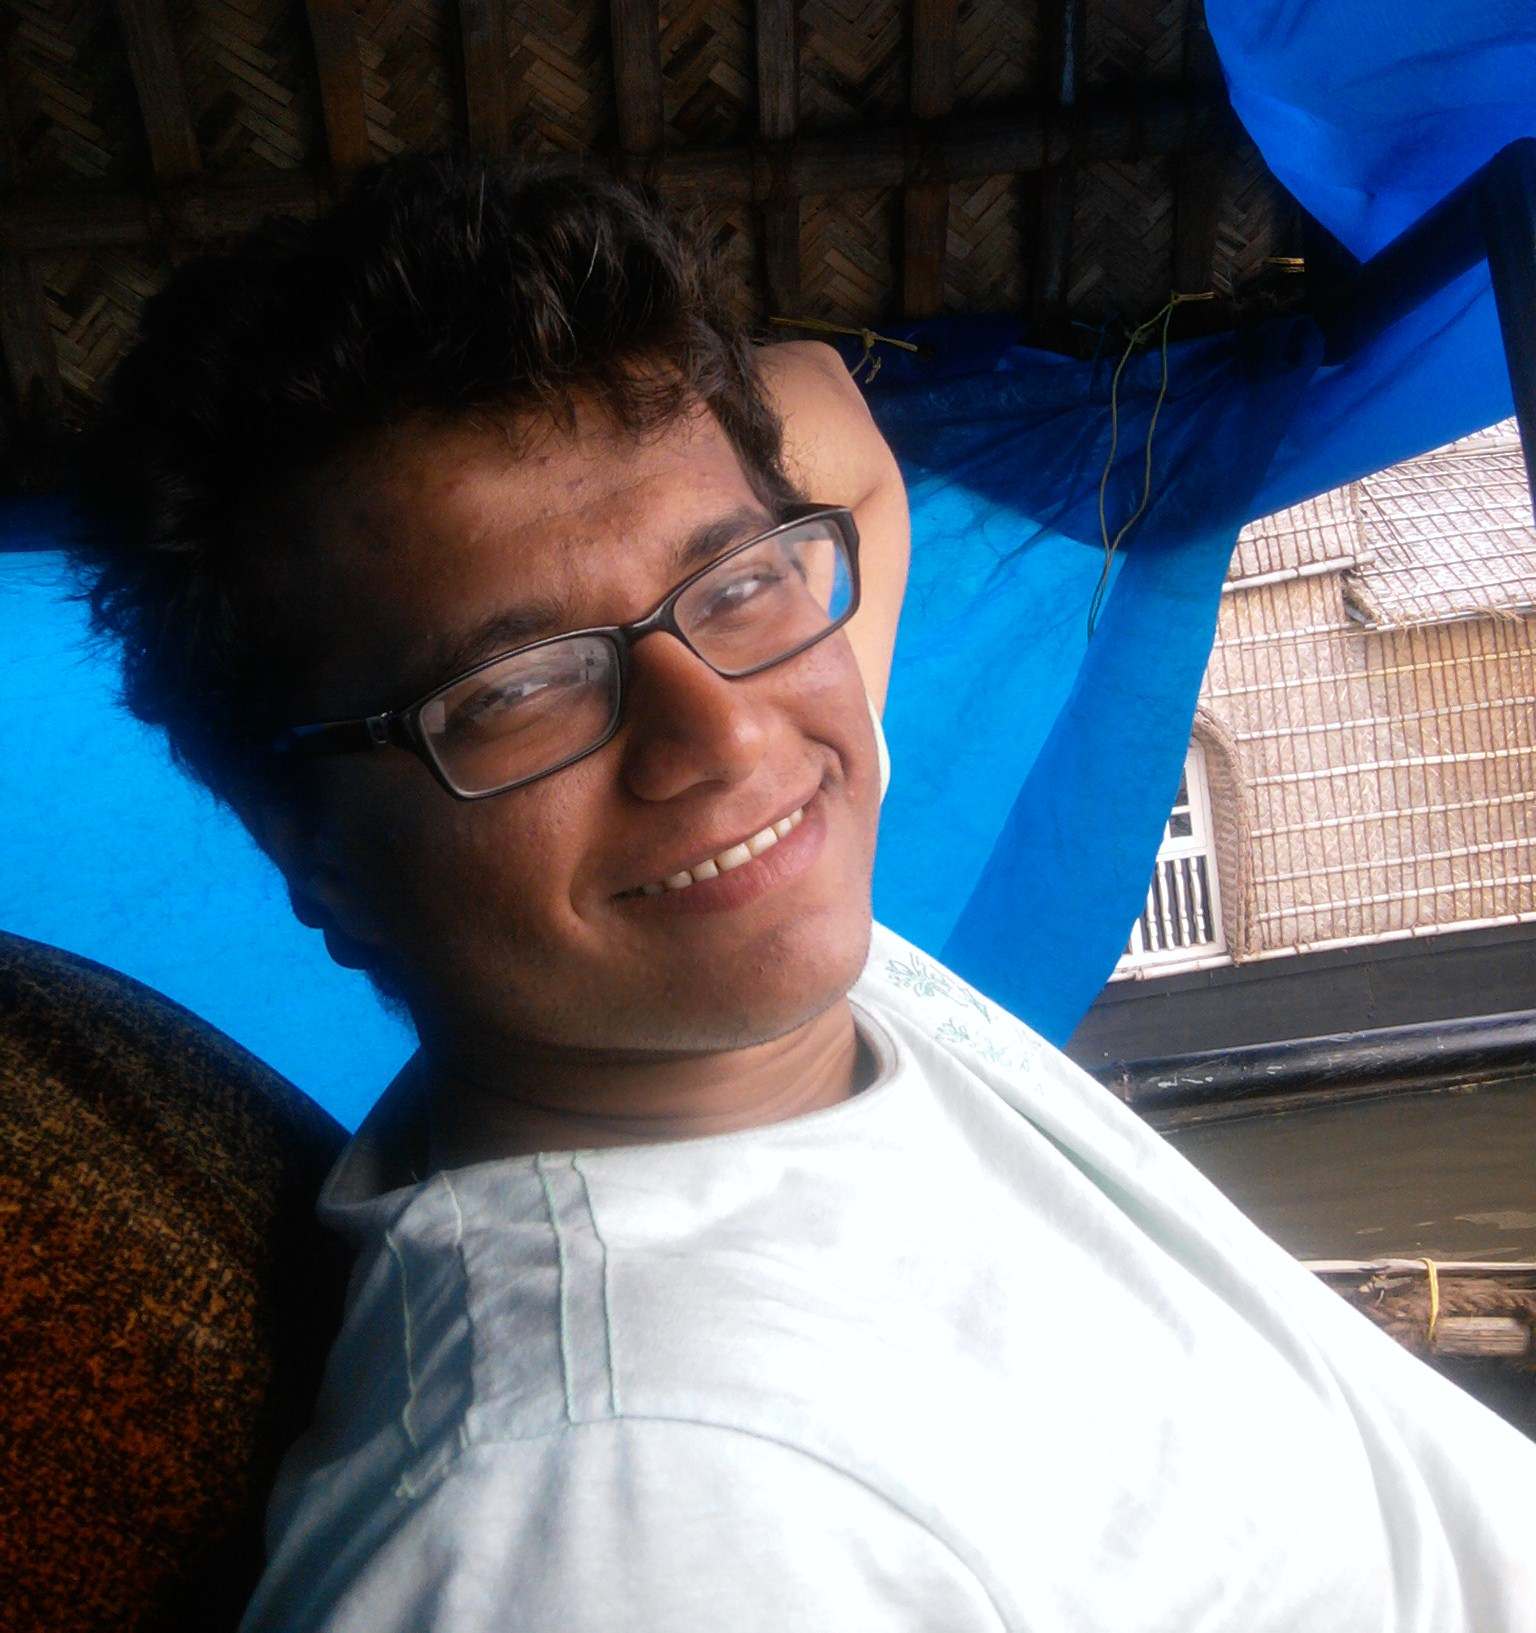
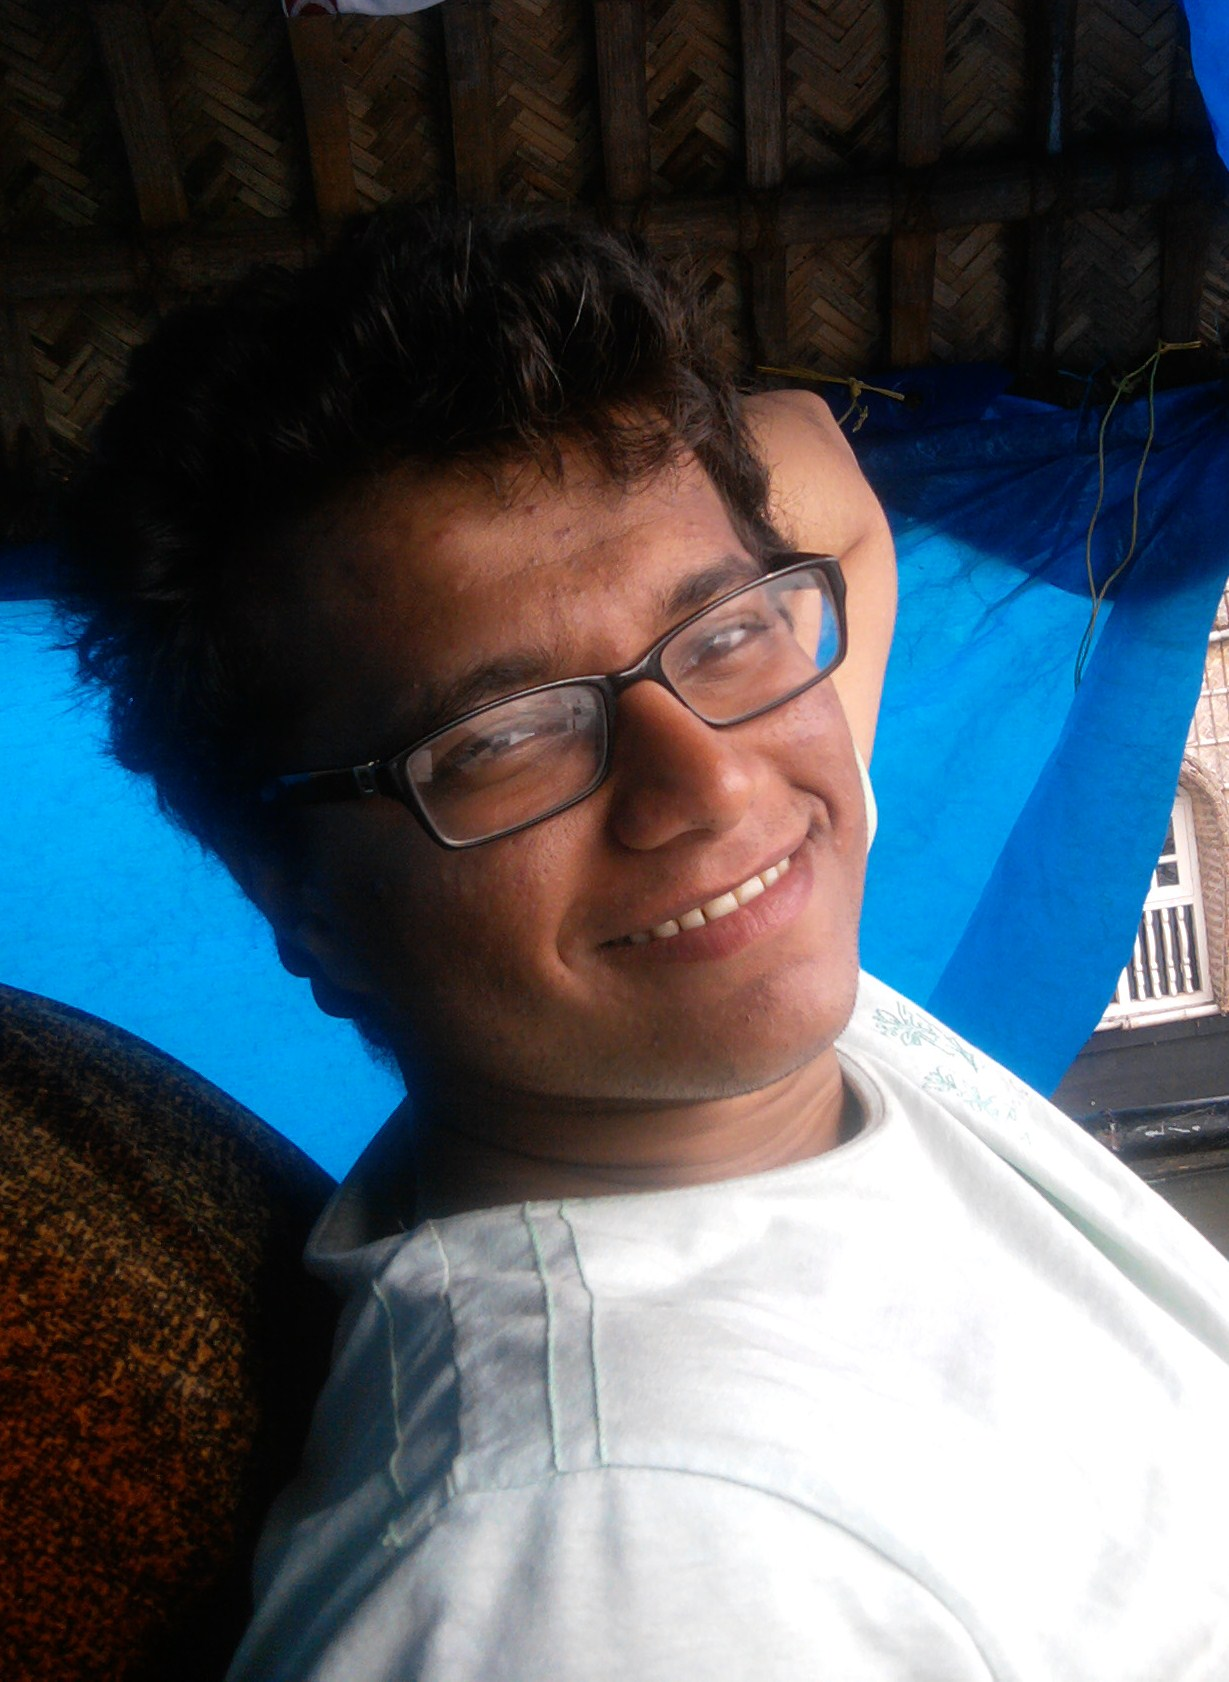
modified sidebar

diff --git a/css/main.css b/css/main.css
@@ -18,18 +18,18 @@ body
 	linear,
 	left top,
 	left bottom,
-	color-stop(0, black),
-	color-stop(0.5, transparent),
-    color-stop(1,black)), url("/Images/me.jpg");
-    background-image: -webkit-linear-gradient(bottom, black, transparent,black), url("/Images/me.jpg");
-    background-image: -o-linear-gradient(bottom, black, transparent,black), url("/Images/me.jpg");
-    background-image: -ms-linear-gradient(bottom, black, transparent,black), url("/Images/me.jpg");
-    background-image: -moz-linear-gradient(linear, black, transparent, black), url("/Images/me.jpg");
-    background-image: linear-gradient(to bottom, black, transparent, black), url("/Images/me.jpg");
+	color-stop(0.2, black),
+	color-stop(0.6, transparent),
+    color-stop(0.94,black)), url("/Images/me.jpg");
+    background-image: -webkit-linear-gradient(bottom, black 20%, transparent,black 94%), url("/Images/me.jpg");
+    background-image: -o-linear-gradient(bottom, black 20%, transparent,black 94%), url("/Images/me.jpg");
+    background-image: -ms-linear-gradient(bottom, black 20%, transparent,black 94%), url("/Images/me.jpg");
+    background-image: -moz-linear-gradient(linear, black 20%, transparent, black 94%), url("/Images/me.jpg");
+    background-image: linear-gradient(to bottom, black 20%, transparent, black 94%), url("/Images/me.jpg");
     z-index:5;
     background-size: 100%, 100% auto;
     background-repeat:no-repeat;
-    background-position: 50% 100%;
+    background-position: 0 78%;
     -webkit-box-shadow:0px 5px 5px 1px #333333;
     box-shadow:0px 5px 5px 1px #333333;
     
@@ -45,18 +45,23 @@ body
     display:block;
     color:white;
     margin-left:35px;
+    margin-right:35px;
     margin-top:5px;
     font-size:18px;
     text-decoration:none;
     font-weight:600;
+    padding-bottom:2px;
+    border-bottom:1px solid black;
 }
 
 .navigationlink:hover{
-    text-decoration:underline;
+    text-decoration:none;
+    border-bottom-color:white;
 }
 
 .navigationlink:active{
-    text-decoration:underline;
+    text-decoration:none;
+    border-bottom-color:white;
 }
 
 .social-links{
@@ -64,7 +69,7 @@ body
     position:absolute;
     color:white;
     margin-left:35px;
-    margin-bottom:10px;
+    margin-bottom:20px;
     font-size:10px;
 }
 
